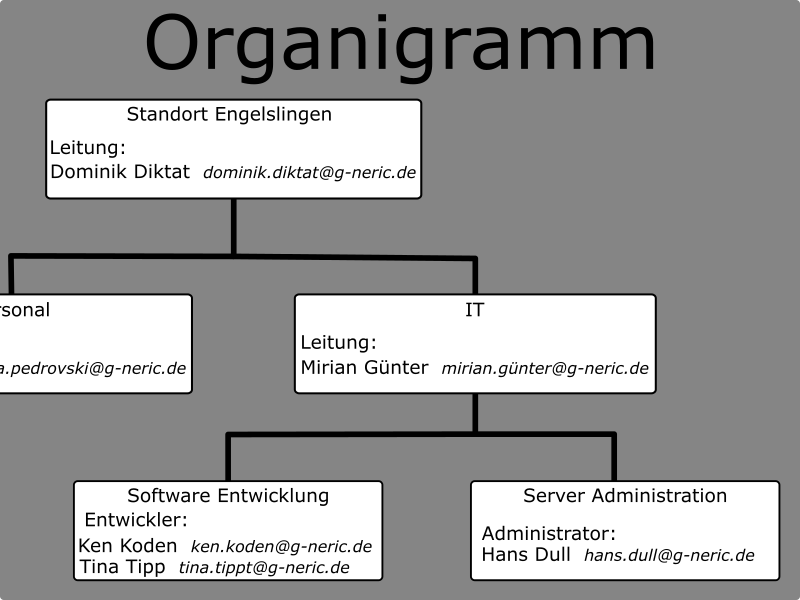
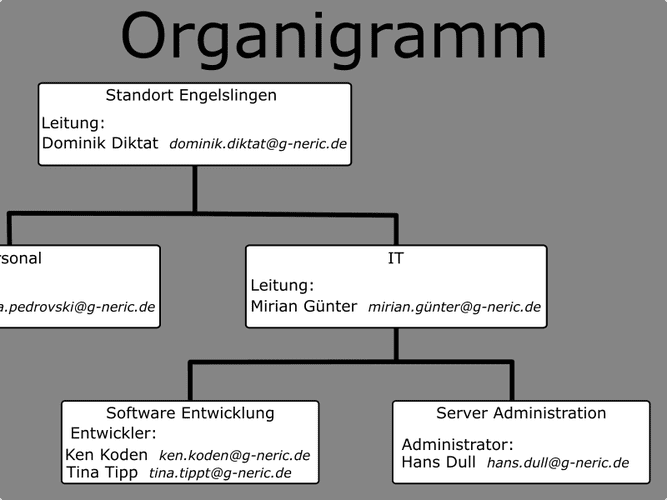
Bug Fixes von Carroll

diff --git a/src/game/scenes/Indoor.ts b/src/game/scenes/Indoor.ts
@@ -103,7 +103,7 @@ export class Indoor extends Scene
             { x: 9.5*32, y: 32.5*32 },//wp0
         ]);
         this.loadTurnstile();
-        //this.loadCamera();
+        this.loadCamera();
         this.setupInteractionZones();
     }
 
@@ -164,7 +164,7 @@ export class Indoor extends Scene
                         if(highlight){
                             this.scene.launch("PopupScene", { 
                                 imageKey: "sudoku", 
-                                imageScale: 0.5, 
+                                imageScale: 1, 
                                 returnScene: "Indoor" 
                             });
                             this.scene.bringToTop("PopupScene");
@@ -177,7 +177,7 @@ export class Indoor extends Scene
                         if(highlight){
                             this.scene.launch("PopupScene", { 
                                 imageKey: "architecture", 
-                                imageScale: 0.5, 
+                                imageScale: 1, 
                                 returnScene: "Indoor" 
                             });
                             this.scene.pause();
@@ -189,7 +189,7 @@ export class Indoor extends Scene
                         if(highlight){
                             this.scene.launch("PopupScene", { 
                                 imageKey: "photoCertificate", 
-                                imageScale: 0.22, 
+                                imageScale: 1, 
                                 returnScene: "Indoor" 
                             });
                             this.scene.pause();
@@ -201,7 +201,7 @@ export class Indoor extends Scene
                         if(highlight){
                             this.scene.launch("PopupScene", { 
                                 imageKey: "cameraShop", 
-                                imageScale: 0.8, 
+                                imageScale: 1, 
                                 returnScene: "Indoor" 
                             });
                             this.scene.pause();
@@ -213,7 +213,7 @@ export class Indoor extends Scene
                         if(highlight){
                             this.scene.launch("PopupScene", { 
                                 imageKey: "organigramm", 
-                                imageScale: 0.8, 
+                                imageScale: 1, 
                                 returnScene: "Indoor" 
                             });
                             this.scene.pause();
@@ -225,7 +225,7 @@ export class Indoor extends Scene
                         if(highlight){
                             this.scene.launch("PopupScene", { 
                                 imageKey: "crossword", 
-                                imageScale: 0.75, 
+                                imageScale: 1, 
                                 returnScene: "Indoor" 
                             });
                             this.scene.pause();
@@ -237,7 +237,7 @@ export class Indoor extends Scene
                         if(highlight){
                             this.scene.launch("PopupScene", { 
                                 imageKey: "summerparty", 
-                                imageScale: 0.3, 
+                                imageScale: 1, 
                                 returnScene: "Indoor" 
                             });
                             this.scene.pause();
@@ -249,7 +249,7 @@ export class Indoor extends Scene
                         if(highlight){
                             this.scene.launch("PopupScene", { 
                                 imageKey: "visitorlist", 
-                                imageScale: 0.8, 
+                                imageScale: 1, 
                                 returnScene: "Indoor" 
                             });
                             this.scene.pause();
@@ -267,7 +267,7 @@ export class Indoor extends Scene
                     case 12:{
                         //Kitchen
                         if(highlight){
-                            this.createSpeechBubble(10*32,14.5*32,180,80,"Wie unordentlich, hier hinterlässt jemand seine Essensreste.\nWertvolle informationen bekomme ich daraus leider nicht.",4800, this.player.getSprite());
+                            this.createSpeechBubble(10*32,14.5*32,180,50,"Ui, morgen wird's wohl Regen geben. \n Aber die Information hilft mir wohl nicht weiter.",4800, this.player.getSprite());
                         }
                         break;
                     }
@@ -432,7 +432,7 @@ export class Indoor extends Scene
             { x: 25, y: 1.5 },
             { x: 23, y: 1 },
             { x: 20, y: 2 },
-            { x: 10, y: 12 },
+            { x: 4.8, y: 7.2 },
             { x: 4, y: 12 },
             { x: 7, y: 10 },
             { x: 4.9, y: 17.3 },
@@ -448,16 +448,16 @@ export class Indoor extends Scene
                 .setRectangle(50, 50)
                 .setStatic(true)
                 .setSensor(true);
-    
-            this.tweens.add({
-                targets: highlight,
-                alpha: { from: 0.5, to: 1.0 },
-                scale: { from: 0.9, to: 1.1 },
-                duration: 1000,
-                yoyo: true,
-                repeat: -1
-            });
-    
+                // Tween für das Blinken mit dynamischem maxAlpha
+                this.tweens.add({
+                    targets: highlight,
+                    alpha: { from: 0.3, to: 1 },
+                    scale: { from: 0.9, to: 1.1 },
+                    duration: 1000,
+                    yoyo: true,
+                    ease: 'Sine.easeInOut',
+                    repeat: -1
+                });
             highlight.setOnCollideWith(this.player.getBody(), () => {
                 this.canPerformAction = true;
                 this.time.delayedCall(3000, this.showActionText.bind(this));
@@ -474,76 +474,47 @@ export class Indoor extends Scene
     }
 
     loadCamera(){
-        const camera = this.matter.add.sprite(17*32 + 16 ,0*32,'ts_a_seccamera')
+        const camera = this.matter.add.sprite(9*32 ,15.5*32,'ts_a_seccamera')
             .setStatic(true)
         this.anims.create({
             key: 'seccamera_moving',
             frames: this.anims.generateFrameNumbers('ts_a_seccamera', { start: 0, end: 9 }),
-            frameRate: 4,
-            repeat: -1
+            frameRate: 2,
         });
-        camera.anims.play('seccamera_moving');
-        const cameravision = this.matter.add.sprite(128,128,'ts_seccam_cone')
+        const cameravision = this.matter.add.sprite(camera.x,camera.y + 10,'ts_seccam_cone')
             .setOrigin(0.5,0)
-            .setScale(0.1)
-            .setRectangle(10,10);
-        
+            .setSensor(true)
+            .setScale(0.1);
 
-        this.cameraAngle = 0;
-        // Camera view triangle (Graphic)
-        this.cameraGraphic = this.add.graphics();
-        this.cameraGraphic.fillStyle(0xff0000, 0.5);
-        this.cameraGraphic.fillTriangle(400, 300, 380, 400, 420, 400);
-
-        // Camera Matter Body
-        const viewVertices = [{ x: 400, y: 300 }, { x: 380, y: 400 }, { x: 420, y: 400 }];
-        this.cameraSensor = this.matter.add.fromVertices(400, 300+66, viewVertices, {
-            isStatic: true,
-            isSensor: true, // Makes it a sensor to trigger collision events
-            label: 'camera',
-        });
-
-        this.time.addEvent({
-            delay: 30,
-            callback: this.rotateCamera,
-            callbackScope: this,
-            loop: true,
-        });
+            let direction = -1;
+            let angle =  45;
+            const angleMin =  - 45;
+            const angleMax =   45;
+            const rotationSpeed = 1.8 ; // Grad pro Frame (anpassen)
+            
+            // Update-Loop für die Sichtkegel-Rotation
+            this.time.addEvent({
+                delay: 50, // Geschwindigkeit der Bewegung
+                loop: true,
+                callback: () => {
+                    if(angle === angleMax){
+                        camera.anims.play('seccamera_moving');
+                    }
+                    angle += direction * rotationSpeed;
+                    if (angle >= angleMax || angle <= angleMin) {
+                        direction *= -1; // Richtung umkehren
+                    }
+                    
+            
+                    // Cameravision bewegen und rotieren (mit oben-mittigem Drehpunkt)
+                    cameravision.setRotation(Phaser.Math.DegToRad(angle));
+            
+                    // Position relativ zur Kamera aktualisieren
+                    cameravision.setPosition(camera.x - angle*0.1, camera.y + 10);
+                }
+            });
     }
 
-
-    rotateCamera() {
-        this.cameraAngle += this.direction * 0.02; // Update angle by direction
-
-        // Check angle limits
-        if (this.cameraAngle >= Phaser.Math.DegToRad(90)) {
-            this.direction = -1; // Reverse direction
-        } else if (this.cameraAngle <= 0) {
-            this.direction = 1; // Reverse direction
-        }
-
-        this.cameraAngle += 0.02; // Rotation speed
-        const rotationMatrix = Phaser.Math.RotateAround({ x: 380, y: 400 }, 400, 300, this.cameraAngle);
-        this.cameraSensor.position.x = rotationMatrix.x;
-        this.cameraSensor.position.y = rotationMatrix.y;
-    
-        // Sync Graphic with Matter Sensor (re-render triangle)
-        this.cameraGraphic.clear();
-        this.cameraGraphic.fillStyle(0xff0000, 0.5);
-        const p1 = { x: 400, y: 300 };
-        const p2 = Phaser.Math.RotateAround({ x: 380, y: 400 }, p1.x, p1.y, this.cameraAngle);
-        const p3 = Phaser.Math.RotateAround({ x: 420, y: 400 }, p1.x, p1.y, this.cameraAngle);
-    
-        this.cameraGraphic.fillTriangle(p1.x, p1.y, p2.x, p2.y, p3.x, p3.y);
-    
-        // Update Matter Sensor Vertices
-        this.cameraSensor.vertices[0].x = p1.x;
-        this.cameraSensor.vertices[0].y = p1.y;
-        this.cameraSensor.vertices[1].x = p2.x;
-        this.cameraSensor.vertices[1].y = p2.y;
-        this.cameraSensor.vertices[2].x = p3.x;
-        this.cameraSensor.vertices[2].y = p3.y;
-    }
     loadTurnstile(){
         // Add a sprite for the turnstile and attach the composite body
         this.turnstile = this.matter.add.sprite(14*32,16*32,'ts_a_turnstile')

diff --git a/src/game/scenes/MainMenu.ts b/src/game/scenes/MainMenu.ts
@@ -19,7 +19,10 @@ export class MainMenu extends Scene {
 
         const urlParams = new URLSearchParams(window.location.search);
         const sessionId = urlParams.get('sid');
-        console.log(sessionId);
+
+        if (sessionId && /^\d+$/.test(sessionId) && Number(sessionId) > 0) {
+            console.log("sessionId ist eine positive Zahl:", sessionId);
+        }
     }
 
     private createBackground() {
@@ -51,15 +54,15 @@ export class MainMenu extends Scene {
         
         const buttonData = [
             { text: 'Spielen', scene: 'InfoScreen' },
-            //{ text: 'Steuerung', scene: 'VisitorPass' },
             { text: 'Credits', scene: 'Credits' },
-            //{ text: 'DevTest', scene: 'Indoor' },
-            //{ text: 'DevTestQuiz', scene: 'QuizScene' },
-            //{ text: 'DevTestPhishing', scene: 'SpearPhishingScene' }
+            { text: 'Ausweis fälschen', scene: 'VisitorPass' },
+            { text: 'Im Bürogebäude', scene: 'Indoor' },
+            { text: 'Quiz', scene: 'MailLoginScene' },
+            { text: 'Mail fälschen', scene: 'SpearPhishingScene' },
         ];
 
         this.buttons = buttonData.map((data, index) => {
-            const button = this.add.text(this.scale.width / 2, 400 + index * 100, data.text, {
+            const button = this.add.text(this.scale.width / 2, 400 + index * 50, data.text, { //index ist normal 100
                 fontFamily: 'Arial Black',
                 fontSize: '32px',
                 color: '#ffffff',
@@ -74,17 +77,17 @@ export class MainMenu extends Scene {
                 console.log(`${data.text} button clicked`);
                 // Only start the Game scene for now
                 if (data.scene === 'Credits') {
-                    AchievementManager.unlockAchievement("game_start", this);
+                    AchievementManager.unlockAchievement("quick_thinker", this);
                     this.scene.start('InfoScreen', {
                         title: 'Credits',
                         message: 'Spielkonzept, Programmierung & co:\n\nNicolai Diehl\nnicolai.diehl@tuta.io\n\n\n\nAssets:\n\nLimeZu\nhttps://limezu.itch.io/',
                         scene: 'MainMenu'});
                 }else if(data.scene === 'InfoScreen'){
-                    // this.scene.start(data.scene, {
-                    //     title: 'Informationen sammeln',
-                    //     //message: 'Agent, deine Aufgabe: Sammle unauffällig Informationen bei G-Neric Corp. Als Social Engineer setzt du auf Täuschung statt Technik. Finde nützliche Details – ein Name, ein Passwort, ein Badge – alles kann wertvoll sein. Bleib wachsam, agiere clever, und vor allem: Bleib unsichtbar. Viel Erfolg!',
-                    //     message: 'Als geschickter Social Engineer hast du ein klares Ziel: das Unternehmen G-Neric Corp zu infiltrieren. \nDoch der Zugang zum Firmengebäude ist nicht jedem gewährt – doch du bist bereit, jedes Schlupfloch zu finden. \nMit deinem Bus fährst du zum Gebäude, entschlossen, entscheidende Informationen aufzuspüren, die dir den Weg ins Innere ebnen. \n Viel Erfolg!',
-                    //     scene: 'Game'});
+                    this.scene.start(data.scene, {
+                        title: 'Informationen sammeln',
+                        //message: 'Agent, deine Aufgabe: Sammle unauffällig Informationen bei G-Neric Corp. Als Social Engineer setzt du auf Täuschung statt Technik. Finde nützliche Details – ein Name, ein Passwort, ein Badge – alles kann wertvoll sein. Bleib wachsam, agiere clever, und vor allem: Bleib unsichtbar. Viel Erfolg!',
+                        message: 'Als geschickter Social Engineer hast du ein klares Ziel: das Unternehmen G-Neric Corp zu infiltrieren. \nDoch der Zugang zum Firmengebäude ist nicht jedem gewährt – doch du bist bereit, jedes Schlupfloch zu finden. \nMit deinem Bus fährst du zum Gebäude, entschlossen, entscheidende Informationen aufzuspüren, die dir den Weg ins Innere ebnen. \n Viel Erfolg!',
+                        scene: 'Game'});
                     AchievementManager.unlockAchievement("career_1", this);
                     this.fillSceneManager();
                     const nextScene = sceneManager.getNextScene();
@@ -98,6 +101,19 @@ export class MainMenu extends Scene {
         });
     }
     fillSceneManager() {
+        sceneManager.pushScene('InfoScreen', { 
+            title: `Spear Phishing`, 
+            message: `Durch deinen künstlich erzeugten Zeitdruck der Anmeldefrist hat Herr Diktat schnell auf deine E-Mail geantwortet.
+            Mit dem Anhang der Mail - dem Anmeldeformular - konntest du einen Keylogger auf dem Rechner des Vorgesetzten installieren.
+            Ein Keylogger ist ein Programm, welches alle Tastatureingaben des Nutzers mitliest, aufzeichnet und an den Angreifer übermittelt.{break}
+
+            Während du wartest formulierst du deinen weiteren Plan aus:
+            Als nächstes führst du eine "Buisness-Email-Compromise"-Atacke durch: Dafür schickst du eine Mail im Namen von Herrn Diktat an den Server Administrator und nutze das geplanten Update als Vorwand, um an das Server-Passwort zu kommen.
+
+            Doch bisher hat sich Herr Diktat noch nicht in sein Mail-Postfach angemeldet, aber die Zeit drängt: Die Server-Techniker kommen schon morgen!!
+            Gerade als du denkst, du musst deinen Plan aufgeben, meldet der Keylogger folgendes in der Konsole:
+            ` 
+        });
         sceneManager.pushScene('InfoScreen', { 
             title: `Mission 1: Informationsbeschaffung`, 
             message: `In diesem Spiel schlüpst du in die Rolle von Hackie Chan - einem Kriminellen, der seinen Unterhalt durch Erpressung von Unternehmen verdient.
@@ -285,11 +301,10 @@ export class MainMenu extends Scene {
             Ein Keylogger ist ein Programm, welches alle Tastatureingaben des Nutzers mitliest, aufzeichnet und an den Angreifer übermittelt.{break}
 
             Während du wartest formulierst du deinen weiteren Plan aus:
-            Als nächstes führst du eine "Buisness-Email-Compromise"-Atacke durch: Dafür schickst du eine Mail im Namen von Herrn Diktat an den Server Administrator und nutze das geplanten Update als Vorwand, um an das Server-Passwort zu kommen.
+            Als nächstes führst du eine "Business-Email-Compromise"-Atacke durch: Dafür schickst du eine Mail im Namen von Herrn Diktat an den Server Administrator und nutze das geplanten Update als Vorwand, um an das Server-Passwort zu kommen.
 
             Doch bisher hat sich Herr Diktat noch nicht in sein Mail-Postfach angemeldet, aber die Zeit drängt: Die Server-Techniker kommen schon morgen!!
             Gerade als du denkst, du musst deinen Plan aufgeben, meldet der Keylogger folgendes in der Konsole:
-            
             ` 
         });
         sceneManager.pushScene('MailLoginScene');

diff --git a/src/game/scenes/SpearPhishingScene.ts b/src/game/scenes/SpearPhishingScene.ts
@@ -313,16 +313,16 @@ export class SpearPhishingScene extends Phaser.Scene {
 
     createDropdownMenu(dropdownX: number, buttonY: number, openButtonX: number) {
         const options = [
-            { text: 'Architekturband', key: 'architecture', scale: 0.5 },
+            { text: 'Architekturband', key: 'architecture', scale: 1 },
             { text: 'Notiz Server 1', key: 'serverName', scale: 1.5 },
             { text: 'Notiz Server 2', key: 'serverNote', scale: 1.5 },
-            { text: 'Sudoku', key: 'sudoku', scale: 0.5 },
-            { text: 'Foto Urkunde', key: 'photoCertificate', scale: 0.22 },
-            { text: 'Bildschirm Vorgesetzter', key: 'cameraShop', scale: 0.8 },
-            { text: 'Organigramm', key: 'organigramm', scale: 0.8 },
-            { text: 'Kreuzworträtsel', key: 'crossword', scale: 0.75 },
-            { text: 'Sommerfest', key: 'summerparty', scale: 0.3 },
-            { text: 'Besucherliste', key: 'visitorlist', scale: 0.8 },
+            { text: 'Sudoku', key: 'sudoku', scale: 1 },
+            { text: 'Foto Urkunde', key: 'photoCertificate', scale: 1 },
+            { text: 'Bildschirm Vorgesetzter', key: 'cameraShop', scale: 1 },
+            { text: 'Organigramm', key: 'organigramm', scale: 1 },
+            { text: 'Kreuzworträtsel', key: 'crossword', scale: 1 },
+            { text: 'Sommerfest', key: 'summerparty', scale: 1 },
+            { text: 'Besucherliste', key: 'visitorlist', scale: 1 },
         ];
     
         let selectedKey = options[0].key;

diff --git a/src/game/scenes/QuizScene.ts b/src/game/scenes/QuizScene.ts
@@ -171,7 +171,7 @@ export class QuizScene extends Scene {
                     "Keine vertraulichen Informationen in vollen Aufzügen besprechen"
                 ],
                 [1, 3], // Korrekte Antworten: B, D
-                "Falsch! Vertrauliche Gespräche in Hörweite von anderen und unbeaufsichtigte Dokumente sind ein Risiko. Nicht alle Kollegen sind für alle Informationswerte freigegeben.",
+                "Falsch! Vertrauliche Gespräche in Hörweite von anderen und unbeaufsichtigte Dokumente sind ein Risiko. Achte bei informationen auf die Freigabestufe, auch unter Kollegen.",
                 "Richtig! Sichtschutzfilter und das Vermeiden vertraulicher Gespräche in öffentlichen Bereichen schützen vor Datenlecks."
             );
             quizManager.addQuestion(
@@ -642,7 +642,12 @@ export class QuizScene extends Scene {
             this.registry.set('userAnswers1', quizManager.getUserAnswers());
         } else {
             // Andernfalls speichere die Antworten in der Datenbank
-            this.saveUserAnswersToDB();
+            const urlParams = new URLSearchParams(window.location.search);
+            const sessionId = urlParams.get('sid');
+
+            if (sessionId && /^\d+$/.test(sessionId) && Number(sessionId) > 0) {
+                this.saveUserAnswersToDB();
+            }
         }
         console.log(quizManager.getUserAnswers().toString());
         quizManager.reset();

diff --git a/src/game/scenes/components/AchievementManager.ts b/src/game/scenes/components/AchievementManager.ts
@@ -6,7 +6,7 @@ export class AchievementManager {
         //Karrierelevel
         "career_1": { title: "Anfänger", description: "[Karriere 1/4] \nStarte deine Karriere als Social Engineer.", unlocked: false },
         "career_2": { title: "Trickser", description: "[Karriere 2/4] \nMitarbeiterkarte erfolgreich gefälscht.", unlocked: false },
-        "career_3": { title: "Täuschungskünstler", description: "[Karriere 3/4] \nDu hast eine überzeugende Spearphishing-Mail erstellt.", unlocked: false },
+        "career_3": { title: "Täuschungskünstler", description: "[Karriere 3/4] \nDu hast eine überzeugende Mail erstellt.", unlocked: false },
         "career_4": { title: "Mastermind", description: "[Karriere 4/4] \nDu bist zum Profi-Social Engineer aufgestiegen.", unlocked: false },
         //Easter Eggs
         "joke": { title: "Schlechter Witz", description: "Du hast ein Easter-Egg gefunden und musstest einen schlechten Witz lesen.", unlocked: false },

diff --git a/src/game/main.ts b/src/game/main.ts
@@ -52,7 +52,7 @@ const config: Phaser.Types.Core.GameConfig = {
         default: 'matter',
         matter: {
             gravity: { x:0, y:0}
-            //,debug: true
+            ,debug: true
         }
     },
     dom: {
